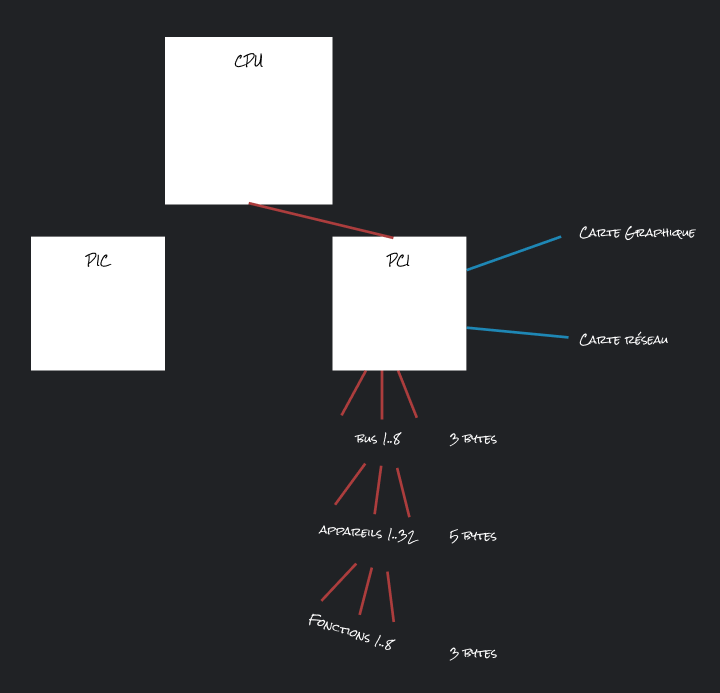
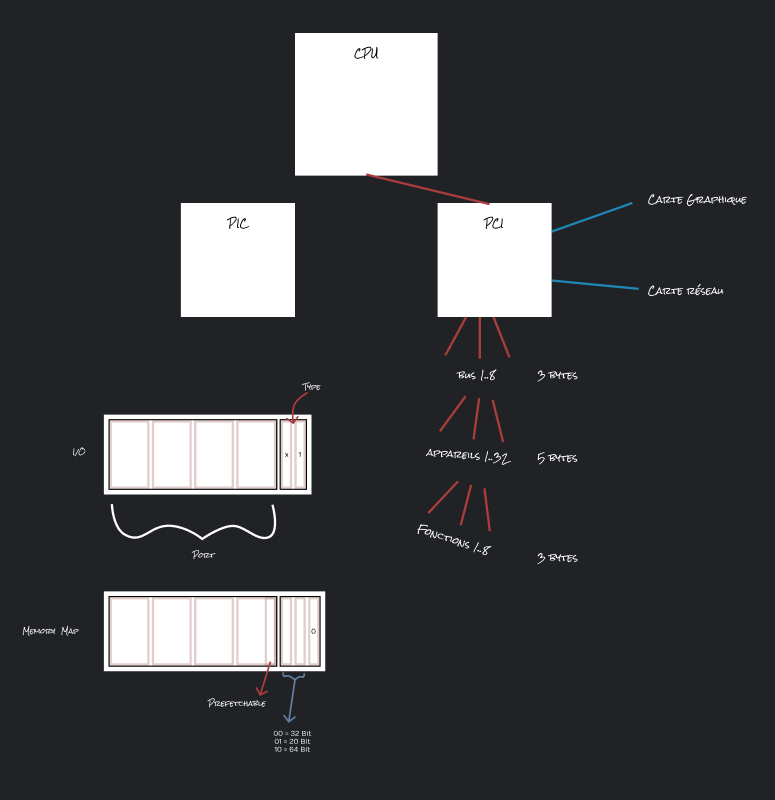
[C++] os: refactor BAR PCI

diff --git a/cpp/os/src/hardware/pci.cpp b/cpp/os/src/hardware/pci.cpp
@@ -1,67 +1,54 @@
 #include "hardware/pci.hpp"
 
-PeripheralComponentInterconnectDeviceDescriptor::
-  PeripheralComponentInterconnectDeviceDescriptor()
+PCIDeviceDescriptor::PCIDeviceDescriptor() {}
+
+PCIDeviceDescriptor::~PCIDeviceDescriptor() {}
+
+PCIController::PCIController()
+  : data_port(0xCFC)
+  , command_port(0xCF8)
 {}
 
-PeripheralComponentInterconnectDeviceDescriptor::
-  ~PeripheralComponentInterconnectDeviceDescriptor()
-{}
-
-PeripheralComponentInterconnectController::
-  PeripheralComponentInterconnectController()
-  : dataPort(0xCFC)
-  , commandPort(0xCF8)
-{}
-
-PeripheralComponentInterconnectController::
-  ~PeripheralComponentInterconnectController()
-{}
+PCIController::~PCIController() {}
 
 u32
-PeripheralComponentInterconnectController::read(u16 bus,
-                                                u16 device,
-                                                u16 fn,
-                                                u32 register_offset)
+PCIController::read(u16 bus, u16 device, u16 fn, u32 register_offset)
 {
   u32 id = 0x1 << 31 | ((bus & 0xFF) << 16) | ((device & 0x1F) << 11) |
            ((fn & 0x07) << 8) | (register_offset & 0xFC);
-  commandPort.write(id);
-  u32 result = dataPort.read();
+  command_port.write(id);
+  u32 result = data_port.read();
   return result >> (8 * (register_offset % 4));
 }
 
 void
-PeripheralComponentInterconnectController::write(u16 bus,
-                                                 u16 device,
-                                                 u16 fn,
-                                                 u32 register_offset,
-                                                 u32 value)
+PCIController::write(u16 bus,
+                     u16 device,
+                     u16 fn,
+                     u32 register_offset,
+                     u32 value)
 {
   u32 id = 0x1 << 31 | ((bus & 0xFF) << 16) | ((device & 0x1F) << 11) |
            ((fn & 0x07) << 8) | (register_offset & 0xFC);
-  commandPort.write(id);
-  dataPort.write(value);
+  command_port.write(id);
+  data_port.write(value);
 }
 
 bool
-PeripheralComponentInterconnectController::device_has_functions(u16 bus,
-                                                                u16 device)
+PCIController::device_has_functions(u16 bus, u16 device)
 {
   return read(bus, device, 0, 0x0E) & (1 << 7);
 }
 
 void
-PeripheralComponentInterconnectController::select_drivers(
-  DriverManager* driver_manager,
-  InterruptManager* interrupt_manager)
+PCIController::select_drivers(DriverManager* driver_manager,
+                              InterruptManager* interrupt_manager)
 {
   for (int bus = 0; bus < 8; bus++) {
     for (int device = 0; device < 32; device++) {
       int total_fn = device_has_functions(bus, device) ? 8 : 1;
       for (int fn = 0; fn < total_fn; fn++) {
-        PeripheralComponentInterconnectDeviceDescriptor dev =
-          get_device_descriptor(bus, device, fn);
+        PCIDeviceDescriptor dev = get_device_descriptor(bus, device, fn);
 
         if (dev.vendor_id == 0x0000 || dev.vendor_id == 0xFFFF) {
           continue;
@@ -103,12 +90,10 @@ PeripheralComponentInterconnectController::select_drivers(
   }
 }
 
-PeripheralComponentInterconnectDeviceDescriptor
-PeripheralComponentInterconnectController::get_device_descriptor(u16 bus,
-                                                                 u16 device,
-                                                                 u16 fn)
+PCIDeviceDescriptor
+PCIController::get_device_descriptor(u16 bus, u16 device, u16 fn)
 {
-  PeripheralComponentInterconnectDeviceDescriptor result;
+  PCIDeviceDescriptor result;
 
   result.bus = bus;
   result.device = device;
@@ -128,10 +113,7 @@ PeripheralComponentInterconnectController::get_device_descriptor(u16 bus,
 }
 
 BaseAddressRegister
-PeripheralComponentInterconnectController::get_base_address_register(u16 bus,
-                                                                     u16 device,
-                                                                     u16 fn,
-                                                                     u16 bar)
+PCIController::get_base_address_register(u16 bus, u16 device, u16 fn, u16 bar)
 {
   BaseAddressRegister result;
 
@@ -163,9 +145,7 @@ PeripheralComponentInterconnectController::get_base_address_register(u16 bus,
 }
 
 Driver*
-PeripheralComponentInterconnectController::get_driver(
-  PeripheralComponentInterconnectDeviceDescriptor dev,
-  InterruptManager* interrupts)
+PCIController::get_driver(PCIDeviceDescriptor dev, InterruptManager* interrupts)
 {
   switch (dev.vendor_id) {
     case 0x1022: // AMD

diff --git a/cpp/os/include/hardware/pci.hpp b/cpp/os/include/hardware/pci.hpp
@@ -25,7 +25,7 @@ public:
   BaseAddressRegisterType type;
 };
 
-class PeripheralComponentInterconnectDeviceDescriptor
+class PCIDeviceDescriptor
 {
 public:
   u32 portBase;
@@ -45,18 +45,18 @@ public:
   u8 revision;
 
 public:
-  PeripheralComponentInterconnectDeviceDescriptor();
-  ~PeripheralComponentInterconnectDeviceDescriptor();
+  PCIDeviceDescriptor();
+  ~PCIDeviceDescriptor();
 };
 
-class PeripheralComponentInterconnectController
+class PCIController
 {
-  Port32Bit dataPort;
-  Port32Bit commandPort;
+  Port32Bit data_port;
+  Port32Bit command_port;
 
 public:
-  PeripheralComponentInterconnectController();
-  ~PeripheralComponentInterconnectController();
+  PCIController();
+  ~PCIController();
 
 public:
   u32 read(u16 bus, u16 device, u16 fn, u32 register_offset);
@@ -64,10 +64,9 @@ public:
   bool device_has_functions(u16 bus, u16 device);
   void select_drivers(DriverManager* driver_manager,
                       InterruptManager* interrupt_manager);
-  PeripheralComponentInterconnectDeviceDescriptor
-  get_device_descriptor(u16 bus, u16 device, u16 fn);
+  PCIDeviceDescriptor get_device_descriptor(u16 bus, u16 device, u16 fn);
 
-  Driver* get_driver(PeripheralComponentInterconnectDeviceDescriptor dev,
+  Driver* get_driver(PCIDeviceDescriptor dev,
                      InterruptManager* interrupt_manager);
 
   BaseAddressRegister get_base_address_register(u16 bus,

diff --git a/cpp/os/src/kernel.cpp b/cpp/os/src/kernel.cpp
@@ -171,7 +171,7 @@ kernel_main(void* multiboot_struct, u32 magicnumber)
   MouseDriver mouse(&interrupts, &mouse_handler);
   driver_manager.add(&mouse);
 
-  PeripheralComponentInterconnectController PCIController;
+  PCIController PCIController;
   PCIController.select_drivers(&driver_manager, &interrupts);
 
   driver_manager.enable_all();

diff --git a/cpp/os/README.md b/cpp/os/README.md
@@ -12,6 +12,6 @@
 
 ![docs/screenshot-03.png](docs/screenshot-03.png)
 
-## Interconnexion des composants périphériques (PCI)
+## Interconnexion des composants périphériques (PCI & BAR)
 
 ![docs/screenshot-04.png](docs/screenshot-04.png)
